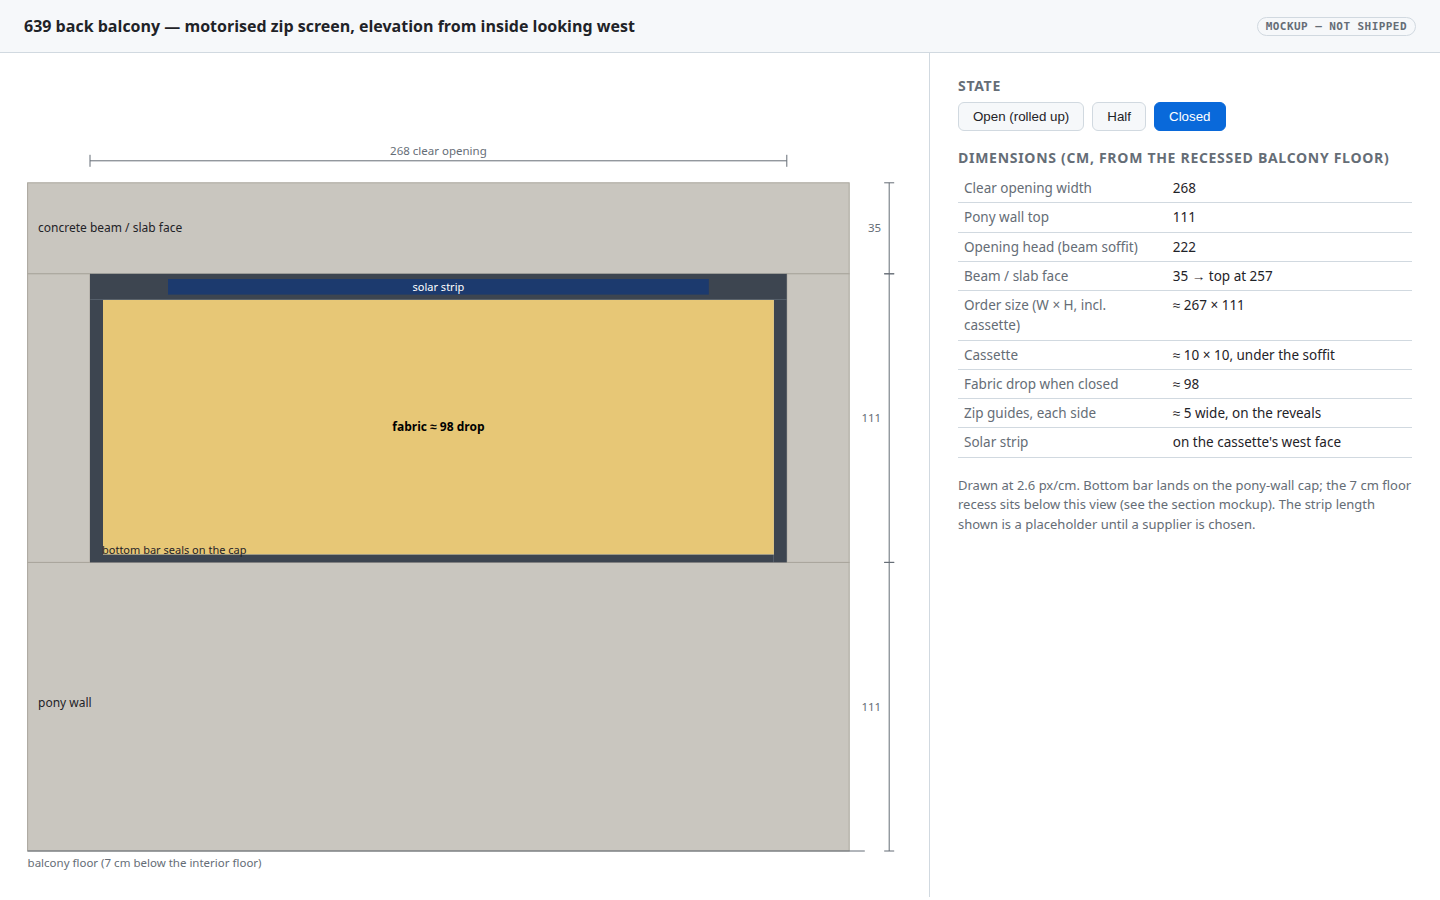
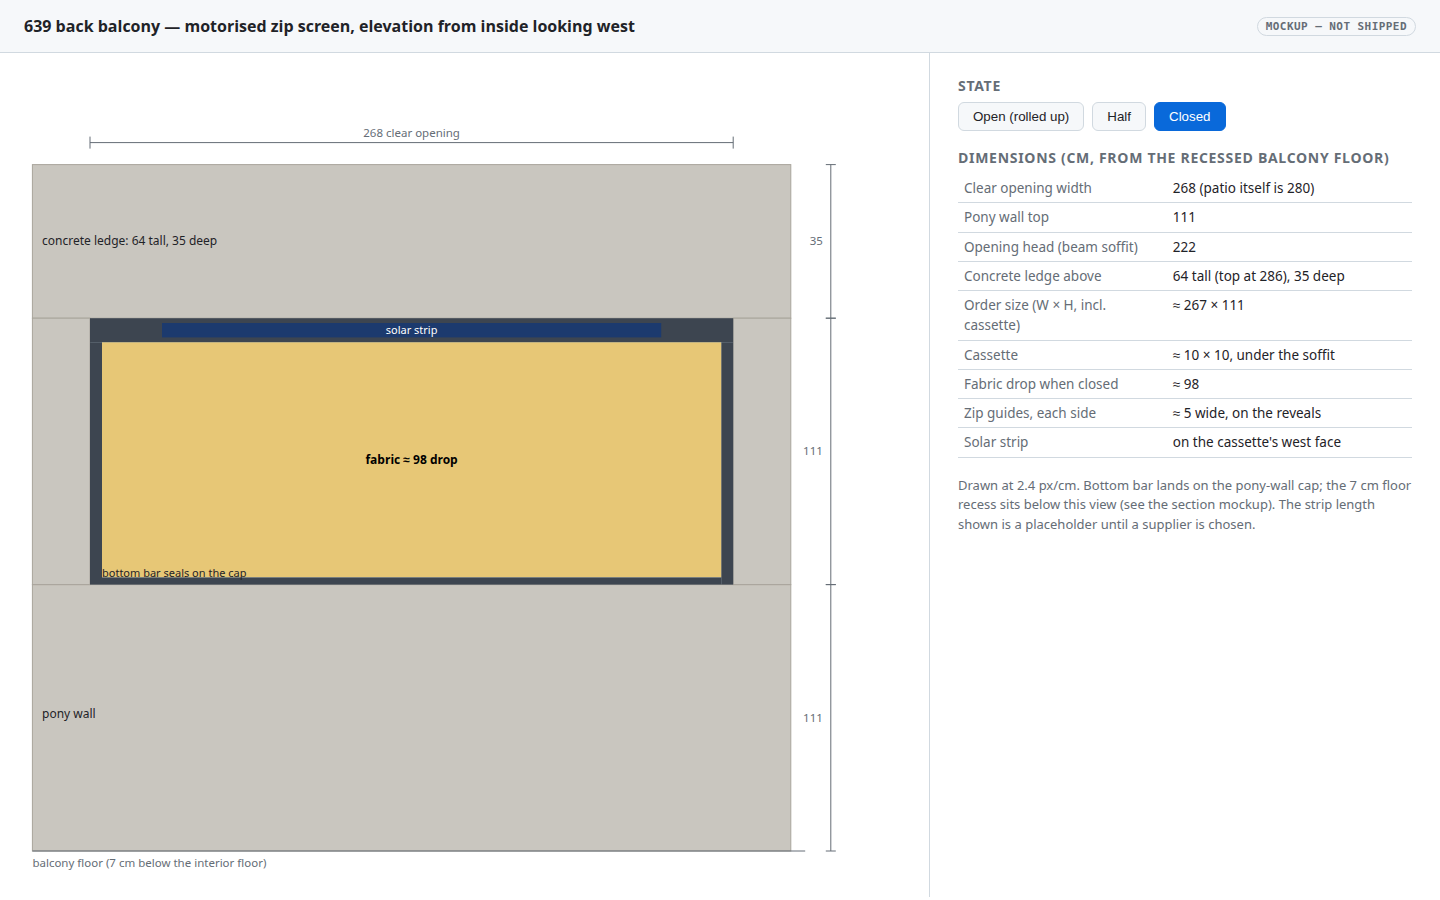
Condo balcony shade: fold in Will's answers (ledge 35 deep x 64 tall, patio 280, 3 m ceilings)
Claude-Session: https://claude.ai/code/session_01TfMcgfFyhXKC4CNP5iF7Nz

diff --git a/docs/plans/2026-09-30-condo-balcony-shade/section.html b/docs/plans/2026-09-30-condo-balcony-shade/section.html
@@ -42,14 +42,14 @@
     <li>The balcony floor steps <b>7 cm down</b> from the interior floor across the whole frontage of the 268 cm opening.</li>
     <li>The cassette hangs from the beam soffit at 222 cm; it eats about 10 cm of the 111 cm opening, so the fabric drops ≈ 98 cm.</li>
     <li>The solar strip is on the cassette's <b>west face</b>, vertical. With the sun above ≈ 60° it is nearly edge-on, so the strip charges best in the low afternoon sun and worst at midday.</li>
-    <li>Wall / beam thickness is drawn at 10 cm, copied from the level model. <b>Not measured</b> — it decides whether the screen sits in the wall's thickness or is surface-mounted.</li>
+    <li>The pony wall is 10 cm thick (confirmed) and drawn flush with the outer face; the ledge above is 35 cm deep, so it overhangs the balcony side by 25 cm. <b>Which face the pony wall is flush with is assumed</b> — the cassette is flush with it so the fabric lands on the cap.</li>
   </ul>
-  <p class="note">Drawn at 2.7 px/cm. The sun ray is only there to judge shading of the strip by the pony wall and beam.</p>
+  <p class="note">Drawn at 2.7 px/cm; the 64 cm ledge is measured 'about'. The sun ray is only there to judge shading of the strip by the pony wall and beam.</p>
 </div>
 </main>
 <script>
 const S = 2.7, WX = 300, YB = 790;                 // px/cm, x of the wall's inner face, balcony-floor line
-const REC = 7, PONY = 111, HEAD = 222, BEAM = 35, T = 10, CASS = 10, BAR = 3;
+const REC = 7, PONY = 111, HEAD = 222, BEAM = 64, T = 10, CASS = 10, BAR = 3;
 const Y = z => YB - z * S, X = y => WX + y * S;    // y in cm, + = outside (west)
 const s = document.getElementById('s');
 function el(t, a, txt) { const e = document.createElementNS('http://www.w3.org/2000/svg', t);
@@ -63,7 +63,7 @@ function draw(p, alt) {
   el('path', {d:`M${X(-105)},${Y(REC)} L${X(-T*0-105+0)},${Y(REC)} L${X(-0)},${Y(REC)} L${X(0)},${Y(0)} L${X(40)},${Y(0)}`, stroke:'var(--fg)', 'stroke-width':2, fill:'none'});
   box(-105, 0, 0, REC, 'var(--conc)', 'var(--conc2)');                    // the 7 cm step block (interior side)
   box(0, 0, T, PONY, 'var(--conc)', 'var(--conc2)');                      // pony wall
-  box(0, HEAD, T, HEAD+BEAM, 'var(--conc)', 'var(--conc2)');              // beam
+  box(T-35, HEAD, T, HEAD+BEAM, 'var(--conc)', 'var(--conc2)');           // ledge: 35 deep, flush with the outer face
   // cassette under the soffit, flush with the wall's outer face
   box(0, HEAD-CASS, T, HEAD, 'var(--cass)');
   box(T, HEAD-CASS+1, T+1.2, HEAD-1, 'var(--solar)');                     // solar strip on the west face
@@ -78,11 +78,11 @@ function draw(p, alt) {
   // labels
   el('text', {x:X(-100), y:Y(REC)-8}, 'interior floor (+7)'); el('text', {x:X(-100), y:Y(0)+16}, 'balcony floor (0)');
   el('text', {x:X(-100), y:Y(REC/2)+4, style:'font-size:11px'}, '7 cm step');
-  el('text', {x:X(T)+8, y:Y(PONY/2)}, 'pony wall 111'); el('text', {x:X(T)+8, y:Y(HEAD+BEAM/2)+4}, 'beam 35');
+  el('text', {x:X(T)+8, y:Y(PONY/2)}, 'pony wall 111'); el('text', {x:X(T)+8, y:Y(HEAD+BEAM/2)+4}, 'ledge 64 tall × 35 deep');
   el('text', {x:X(T)+22, y:Y(HEAD-CASS/2)+4}, 'cassette + solar strip');
   el('text', {x:X(T)+8, y:Y((HEAD+PONY)/2-4), style:'fill:var(--muted)'}, p>0.02?'':'(open: fabric rolled up)');
   const dx = X(-60);
-  for (const [a0,b0,l] of [[0,PONY,'111'],[PONY,HEAD,'111'],[HEAD,HEAD+BEAM,'35']]) {
+  for (const [a0,b0,l] of [[0,PONY,'111'],[PONY,HEAD,'111'],[HEAD,HEAD+BEAM,'64']]) {
     el('line', {class:'dim', x1:dx, y1:Y(a0), x2:dx, y2:Y(b0)}); el('line', {class:'dim', x1:dx-5, y1:Y(a0), x2:dx+5, y2:Y(a0)}); el('line', {class:'dim', x1:dx-5, y1:Y(b0), x2:dx+5, y2:Y(b0)});
     el('text', {class:'dimt', x:dx-8, y:Y((a0+b0)/2)+4, 'text-anchor':'end'}, l); }
   el('text', {class:'dimt', x:X(T)+8, y:Y(HEAD+BEAM)-6}, 'slab / ceiling');

diff --git a/docs/plans/2026-09-30-condo-balcony-shade/elevation.html b/docs/plans/2026-09-30-condo-balcony-shade/elevation.html
@@ -47,23 +47,23 @@
   </div>
   <h2>Dimensions (cm, from the recessed balcony floor)</h2>
   <table>
-    <tr><td>Clear opening width</td><td>268</td></tr>
+    <tr><td>Clear opening width</td><td>268 (patio itself is 280)</td></tr>
     <tr><td>Pony wall top</td><td>111</td></tr>
     <tr><td>Opening head (beam soffit)</td><td>222</td></tr>
-    <tr><td>Beam / slab face</td><td>35 → top at 257</td></tr>
+    <tr><td>Concrete ledge above</td><td>64 tall (top at 286), 35 deep</td></tr>
     <tr><td>Order size (W × H, incl. cassette)</td><td>≈ 267 × 111</td></tr>
     <tr><td>Cassette</td><td>≈ 10 × 10, under the soffit</td></tr>
     <tr><td>Fabric drop when closed</td><td>≈ 98</td></tr>
     <tr><td>Zip guides, each side</td><td>≈ 5 wide, on the reveals</td></tr>
     <tr><td>Solar strip</td><td>on the cassette's west face</td></tr>
   </table>
-  <p class="note">Drawn at 2.6 px/cm. Bottom bar lands on the pony-wall cap; the 7 cm floor recess sits below this view
+  <p class="note">Drawn at 2.4 px/cm. Bottom bar lands on the pony-wall cap; the 7 cm floor recess sits below this view
   (see the section mockup). The strip length shown is a placeholder until a supplier is chosen.</p>
 </div>
 </main>
 <script>
-const S = 2.6, X0 = 80, YB = 790;               // px per cm, left edge of opening, balcony-floor line
-const W = 268, PONY = 111, HEAD = 222, BEAM = 35, CASS = 10, GUIDE = 5, BAR = 3;
+const S = 2.4, X0 = 80, YB = 790;               // px per cm, left edge of opening, balcony-floor line
+const W = 268, PONY = 111, HEAD = 222, BEAM = 64, CASS = 10, GUIDE = 5, BAR = 3;
 const Y = z => YB - z * S, X = x => X0 + x * S;
 const s = document.getElementById('s');
 function el(t, a, txt) { const e = document.createElementNS('http://www.w3.org/2000/svg', t);
@@ -78,7 +78,7 @@ function draw(p) {
   el('rect', {x:X(-24), y:Y(HEAD+BEAM), width:(W+48)*S, height:BEAM*S, fill:'var(--conc)', stroke:'var(--conc2)'}); // beam
   el('rect', {x:X(-24), y:Y(HEAD), width:24*S, height:(HEAD-PONY)*S, fill:'var(--conc)', stroke:'var(--conc2)'});
   el('rect', {x:X(W),  y:Y(HEAD), width:24*S, height:(HEAD-PONY)*S, fill:'var(--conc)', stroke:'var(--conc2)'});
-  el('text', {x:X(-20), y:Y(PONY/2)}, 'pony wall'); el('text', {x:X(-20), y:Y(HEAD+BEAM/2)+4}, 'concrete beam / slab face');
+  el('text', {x:X(-20), y:Y(PONY/2)}, 'pony wall'); el('text', {x:X(-20), y:Y(HEAD+BEAM/2)+4}, 'concrete ledge: 64 tall, 35 deep');
   // zip guides
   for (const gx of [0, W-GUIDE]) el('rect', {x:X(gx), y:Y(HEAD-CASS), width:GUIDE*S, height:(HEAD-CASS-PONY)*S, fill:'var(--cass)'});
   // fabric

diff --git a/docs/plans/2026-09-30-condo-balcony-shade.md b/docs/plans/2026-09-30-condo-balcony-shade.md
@@ -4,14 +4,17 @@
 
 The back balcony of 639 is an open opening onto the west (Bangkok afternoon sun, monsoon rain, gusts, 6th floor ≈ 16 m up). Will wants a **motorised outdoor zip screen in a cassette, mounted under the concrete ledge (beam) of the opening**, with the **solar-strip motor option** (battery motor charged by a thin photovoltaic strip — no mains wiring to the balcony).
 
-Measured by Will (2026‑09‑30):
+Measured by Will (2026‑09‑30; the ledge depth vs. height and the datum were clarified the same day):
 
 | Item | Value |
 |---|---|
 | Opening width | 268 cm |
 | Opening height (pony-wall cap → beam soffit) | 111 cm |
 | Pony wall height | 111 cm |
-| Concrete beam / slab face above the opening | 35 cm deep |
+| Concrete ledge above the opening | **35 cm deep** (front-to-back), **about 64 cm tall** |
+| Pony wall thickness | 10 cm |
+| Patio width (`639-patio-recessed`) | 280 cm; the opening is centred in it |
+| Ceiling | 3 m walls, no drop ceilings anywhere in 639 |
 | Floor in front of the opening | recessed **7 cm** below the interior floor |
 
 **The level model does not match these numbers today** (queried read-only from `~/docs/aircon/units-639-640.blend`, `unit-639` shell, y = 0 plane):
@@ -19,7 +22,8 @@ Measured by Will (2026‑09‑30):
 - The patio rooms are `639-patio-recessed` (x 2.70–5.40) and `639-patio` (x 5.40–7.80), both floored at z = 0, ceilinged at z = 2.70.
 - The open edge is a **1.00 m parapet** (x 2.65–5.85, y −0.10…0) with **nothing above it** up to the 2.70 m ceiling, i.e. a 1.70 m opening and no beam. A full-height wall starts at x 6.55.
 - A full-height post stands at x 5.70–5.80, so the parapet run is 2.75–5.70 = 2.95 m clear, not 2.68 m.
-- Real stack 111 + 111 + 35 = **257 cm**; the model's ceiling is 270 cm.
+- Real stack 111 + 111 + 64 = **286 cm** from the balcony floor, under a **300 cm** ceiling; the model's ceilings are 270 cm (an assumption in the source survey — see Open questions).
+- The model's recessed patio is 270 cm wide; the real one is 280 cm.
 - The Daikin outdoor unit hangs *outboard* of the parapet at x 2.76–3.56, y 0.19–0.49, z 0.30–0.85; its lineset and drain cross y = 0 at the left end, below the parapet cap.
 
 So the plan has two halves: **(A) the real-world spec** Will can take to a supplier, and **(B) the level model** corrected to the measurements, with the shade built into it and operable.
@@ -33,7 +37,7 @@ Product class: **outdoor zip screen, cassette (head box) on the soffit, inside-r
 | Parameter | Recommendation | Why |
 |---|---|---|
 | Order size | ≈ 267 × 111 cm **overall, cassette included** | 268 cm clear less ~5 mm per side; supplier deducts for guides. Measure the clear width at three heights and order to the smallest |
-| Cassette | ≈ 10 × 10 cm, aluminium, flush under the soffit | A 111 cm drop rolls to a small diameter; the cassette costs ≈ 10 cm of the opening, so the fabric drops ≈ 98 cm |
+| Cassette | ≈ 10 × 10 cm, aluminium, under the soffit **flush with the pony wall's outer face**, so the bottom bar lands on the 10 cm cap. The 35 cm-deep ledge leaves 25 cm of soffit on the balcony side, which shades but does not obstruct | A 111 cm drop rolls to a small diameter; the cassette costs ≈ 10 cm of the opening, so the fabric drops ≈ 98 cm |
 | Guides | zip tracks on both reveals, ≈ 5 cm wide each | Keep the fabric taut in gusts; fabric width ≈ 257 cm |
 | Bottom bar | ≈ 3 cm, with rubber seal, lands on the pony-wall cap | Cap must be flat and level — a 0–10 mm error shows as a gap along 2.6 m |
 | Fabric | 3–5 % openness, light exterior colour | Heat rejection matters more than see-through in Bangkok; darker fabric keeps more view but passes more heat |
@@ -44,15 +48,15 @@ Product class: **outdoor zip screen, cassette (head box) on the soffit, inside-r
 
 **Solar strip placement.** The balcony faces due west, so a vertical strip on the cassette's outer face sees direct sun only from roughly midday on, and edge-on near solar noon (see the section mockup). Morning charge is diffuse. Ask the supplier for the strip's Wp, the battery's Wh, and the cycles per day it is rated for; a 111 cm drop is a small load, which is why this option is plausible here.
 
-**Anchoring.** Side guides bolt into the concrete reveals; the cassette hangs from the soffit. Both need the wall thickness (see Open questions).
+**Anchoring.** Side guides bolt into the concrete reveals (the vertical side faces of the opening); the cassette hangs from the soffit. Both need flat, plumb faces — see Open questions.
 
 ### B. Level model (`blender_create_condo.py`)
 
 The source `.blend` is read-only, so all of this is a new section (**§ 7d**) in `wflevels/condo_639_640/blender_create_condo.py`, following the pattern of § 7c (telescoping glass doors) and gated by `CONDO_SHADE=0` to switch it off.
 
-1. **Pin the opening.** Constants in metres, all derived from Will's numbers: `SHADE_W = 2.68`, `PONY_H = 1.11`, `OPEN_H = 1.11`, `BEAM_H = 0.35`, `FLOOR_RECESS = 0.07`, plus `SHADE_X0` (see Open questions).
+1. **Pin the opening.** Constants in metres, all derived from Will's numbers: `SHADE_W = 2.68`, `PONY_H = 1.11`, `PONY_T = 0.10`, `OPEN_H = 1.11`, `LEDGE_DEEP = 0.35`, `FLOOR_RECESS = 0.07`, `PATIO_W = 2.80`. The patio is widened from 2.70 to 2.80 m keeping its south edge on the party wall (x 2.75…5.55); the opening is centred in it (x 2.81…5.49, 6 cm of jamb each side).
 2. **Recess the floor 7 cm** across the opening's frontage. The shell floor is a single z = 0 face set inside `unit-639`, so this is a `bmesh` bisect of the top faces over the rectangle, dropping the cut region by 0.07 m and closing it with a step wall on the interior side. The player walks down 7 cm; Jolt's character step handles that.
-3. **Rebuild the opening** as solid geometry: parapet raised from 1.00 m to 1.11 m over the shade span; a **beam** over the span with its soffit at the opening head; infill piers where the model's 2.95 m run is wider than 2.68 m.
+3. **Rebuild the opening** as solid geometry: parapet raised from 1.00 m to 1.11 m and 10 cm thick, flush with the outer face (y −0.10…0); a **ledge** 35 cm deep (y −0.35…0) with its soffit at the opening head (z 2.15) up to the model's 2.70 m ceiling, i.e. 55 cm tall against the real ≈ 64 cm; solid piers over the rest of the model's 2.95 m parapet run, outside x 2.81…5.49.
 4. **Build the shade** as separate actors:
    - `639-balcony-shade-cassette` (static box with the solar strip as a second material on its west face, the strip length a placeholder);
    - two static guide boxes on the reveals;
@@ -77,13 +81,13 @@ The in-engine states (open, half, closed, seen from the balcony POV and from the
 
 ## Open questions
 
-Each has a default that the build uses until Will corrects it; all are constants at the top of § 7d.
+Answers of 2026‑09‑30 are folded in; what is left has a default that the build uses until corrected (constants at the top of § 7d).
 
-1. **Datum for 111 / 111 / 35.** Default: measured from the **recessed** balcony floor, so the cap is 1.04 m and the soffit 2.15 m above the *interior* floor. If measured from the interior floor, both move up 7 cm.
-2. **Ceiling.** 257 cm from the balcony floor is 250 cm above the interior floor, but the model's patio ceiling is 270 cm. Default: the beam is modelled from the true soffit (2.15) up to the model ceiling (2.70), i.e. taller than 35 cm, so the level stays watertight; the 20 cm is a model artefact, not a claim about the building.
-3. **Where the 268 cm sits.** The model's parapet run is 2.95 m (x 2.75–5.70). Default: centred, x 2.891–5.559, with 14 cm piers each side. Lineset and drain cross below the cap at the left end, so none of the choices collide with the shade.
-4. **Wall / beam thickness.** The model has 10 cm; unmeasured. It decides whether the 10 cm cassette sits inside the wall's thickness or is surface-mounted, and which face the screen closes on.
-5. **Reveal condition.** Are the two side reveals flat, plumb concrete/plaster? Guides need ≈ 5 cm of flat face each side.
+1. ~~Datum for 111 / 111 / 35.~~ **Answered:** measured from the recessed balcony floor. The cap is 1.04 m and the soffit 2.15 m above the interior floor.
+2. ~~Ceiling.~~ **Answered:** walls are 3 m, no drop ceilings in 639, and the ledge is 35 cm deep × ≈ 64 cm tall (my earlier reading of "35" as its height was wrong). The model's 2.70 m ceilings are therefore an assumption in the source survey, worse than assumed. **Not changed here** — raising every ceiling is a level-wide change to `~/scripts/aircon-blender.py`'s model; filed as its own TODO item. In this patio the ledge fills from the true soffit to the model ceiling (55 cm instead of 64).
+3. ~~Where the 268 cm sits.~~ **Answered:** in the recessed patio, to the south of the main patio, which is 280 cm wide. Centred: x 2.81…5.49.
+4. **Which face is the pony wall flush with, and which way does the ledge overhang?** The wall is 10 cm and the ledge 35 cm deep, so one face is flush and the ledge sticks out 25 cm on the other side. Default: both flush on the outer (west) face, ledge overhanging into the balcony. If it is the other way round, the cassette sits on the balcony side of the cap and the bottom bar needs a bar-to-cap check on site.
+5. **Reveals** (the vertical side faces of the opening, left and right — what the zip guides bolt to): are they flat and plumb, with about 5 cm of clear face each side? With a 280 cm patio and a 268 cm opening there should be about 6 cm of wall at each side, which is the width the guides need.
 
 ## Out of scope
 
@@ -91,6 +95,7 @@ Each has a default that the build uses until Will corrects it; all are constants
 - Shading the *interior* side or the other patio room (x 5.40–7.80, full-height wall).
 - Weather in the level (rain, wind on the fabric).
 - Adding the balcony's real slab thickness, drainage falls or waterproofing lip under the 7 cm recess.
+- Raising the whole level to 3 m ceilings (filed separately).
 - A solar-yield model tied to `SUN_ALT_DEG` / `SUN_AZ_DEG`; the existing sun-position item ([plan](2026-09-20-condo-sun-solar-position.md)) is the prerequisite.
 
 ## Verification
@@ -102,4 +107,4 @@ Each has a default that the build uses until Will corrects it; all are constants
 5. In-engine capture at closedness 0, ~0.5 and 1.0 (`-rate20 --capture-frame`): slats tile without gaps or z-fighting at 1.0 and vanish into the cassette at 0.
 6. Balcony POV shot (`cs_balcony`) and the doll-house shot are captured with the shade open and closed; the view is not blocked when open.
 7. Pressing B (keyboard 2) within reach toggles the shade over about 2 s; a second press mid-travel reverses it smoothly; out of reach does nothing.
-8. **On site, before ordering:** measure the clear width at top, middle and bottom, the pony-wall cap level along its length, the wall thickness, and the datum for the three heights (Open questions 1–5); update the constants.
+8. **On site, before ordering:** measure the clear width at top, middle and bottom, the pony-wall cap level along its length, the face the pony wall is flush with, and the ledge's true height (Open questions 4–5); update the constants.

diff --git a/TODO.md b/TODO.md
@@ -71,7 +71,8 @@
 ### Level / Gameplay
 
 - [wip T4] **Aquarium level — 55 gal acrylic tank, one clownfish, one anemone.** <!-- agent:aacf5d1a2b46c3ddc --> Plan and three mockups written 2026‑09‑30. **Phase 0 done (`1aa8e779`): the bit‑15 pane renders opaque** — the fragment shader writes alpha 1.0 (`backend_modern.cc:117`, since `23e632ec`), so the level proceeds on **Plan B (no front face)** unless an engine change is approved; with alpha restored (bridge diagnostic) the pane blends exactly 50 % when created last in actor order. Next: Phase 1 — a gravity-free `Physics` fish and ×1 vs ×10 scale. [plan](docs/plans/2026-09-30-aquarium-level.md)
-- [T4] **Condo 639 back balcony: motorised zip screen (solar-strip motor) + 7 cm floor recess.** Rank T4: shell surgery (bisect the patio floor, rebuild parapet/beam to Will's 268 × 111 × 111 × 35 cm) plus a Director-driven 8-slat roll animation — a wrong turn is expensive. Plan, real-world spec and two mockups written 2026‑09‑30; five open measurements have safe defaults. [plan](docs/plans/2026-09-30-condo-balcony-shade.md)
+- [T4] **Condo 639 back balcony: motorised zip screen (solar-strip motor) + 7 cm floor recess.** Rank T4: shell surgery (bisect the patio floor, rebuild parapet/beam to Will's 268 × 111 × 111 × 35 cm) plus a Director-driven 8-slat roll animation — a wrong turn is expensive. Plan, real-world spec and two mockups written 2026‑09‑30; Will's answers folded in (ledge 35 deep × ≈ 64 tall, patio 280, datum = recessed floor); pony-wall/ledge flush face still assumed. [plan](docs/plans/2026-09-30-condo-balcony-shade.md)
+- [T4] **Condo 639 ceilings are 3 m, not 2.70 m — the source survey is wrong.** Will (2026‑09‑30): walls are 3 m, no drop ceilings anywhere in 639. `WALL_H = 2.7` and the source `.blend` (`~/scripts/aircon-blender.py`) carry 2.70 m; raising every wall, door panel, window, camera and the unit lift is level-wide and can break the tour path, so it needs its own plan. Rank T4: cross-cutting, wrong turn is expensive.
 - [wip T4] **Clownfish idle animation** — hover bob, sway, tail beat, fin flutter, Forth-driven, no engine change. Spike in its own worktree; also settles whether `ROTATION_*` writes work on Physics and StatPlat actors (aquarium plan Phase 1 step 7). <!-- agent:ad5039dd04d90eb31 -->
 - [T4] **qbert_practice and mm_practice_blender_rt no longer rebuild correctly from their scripts.** Since the restored exporter (`8db74292`) the qbert camshot's `Target` exports as the scaffold's original name (`target_14`) instead of the renamed `Target02` — levcomp can't resolve it and the engine asserts `shotData->Target` (movecam.cc:310) on load; the round‑trip level comes out with zero `slope` and without its texture atlas. Reproduced with the pre‑flip exporter too, so it is ObjRef resolution, not winding. Both levels were restored from HEAD in the exporter‑hand sweep and still carry the old hand. Fix the ObjRef lookup, rebuild both, re‑run `scripts/sweep_blender_levels.py --only qbert_practice,mm_practice_blender_rt`. [plan](docs/plans/2026-09-19-exporter-face-hand.md) **Also `smb_w1_1` (2026‑09‑21):** rebuilding it from `blender_create_smb.py` (after the `OAD_DIR` repoint, `e8eebe6e`) yields a large `.lev` diff independent of that change — same class; the regenerated artifacts were deliberately not committed.
 - [T5] **Pin the condo's real footprint (`SITE_OFFSET_EN`).** The map pin geocodes to the Soi Sathu Pradit 34 / Sathu Pradit Road corner — a road in OSM — so the units currently hover over the road on the ground map. Identify the building (candidates listed in the plan's transcript: 65×44 m footprint 65 m NW at bearing 319°, 36×32 m 72 m S…), set the east/north offset in `wflevels/condo_639_640/site_constants.py`, `task condo-textures`. Then a flat box for floors 1–5 under the units becomes possible. [plan](docs/plans/2026-09-19-condo-site-skybox.md)
@@ -363,6 +364,7 @@ _Auto-added from plan "Out of scope"/"Deferred" sections at commit time. Triage 
 - [ ] **(triage)** Adding the balcony's real slab thickness, drainage falls or waterproofing lip under the 7 cm recess. — _from [2026-09-30-condo-balcony-shade.md](docs/plans/2026-09-30-condo-balcony-shade.md)_  <!-- fp:d818673a852465ac -->
 - [ ] **(triage)** A solar-yield model tied to `SUN_ALT_DEG` / `SUN_AZ_DEG`; the existing sun-position item ([plan](2026-09-20-condo-sun-solar-position.md)) is the prerequisite. — _from [2026-09-30-condo-balcony-shade.md](docs/plans/2026-09-30-condo-balcony-shade.md)_  <!-- fp:156c3bc9f97e1790 -->
 - [verify] **2026-09-30-condo-balcony-shade** — Verification section present but no PASS recorded — run + record the steps. _from [2026-09-30-condo-balcony-shade.md](docs/plans/2026-09-30-condo-balcony-shade.md)_  <!-- fp:c04fa8539735b0dc -->
+- [ ] **(triage)** Raising the whole level to 3 m ceilings (filed separately). — _from [2026-09-30-condo-balcony-shade.md](docs/plans/2026-09-30-condo-balcony-shade.md)_  <!-- fp:bee87167a74482ee -->
 <!-- END auto-captured-deferrals -->
 
 - [x] Implemented Forth-only condo camera inspection controls; desktop/touch input regressions passed. [Plan and mockups](docs/plans/2026-09-25-condo-camera-controls.md)

diff --git a/docs/plans/.history/2026-09-30-condo-balcony-shade.md b/docs/plans/.history/2026-09-30-condo-balcony-shade.md
@@ -1,0 +1,11 @@
+| Date | Change |
+|------|--------|
+| [2026-09-30](https://github.com/wbniv/WorldFoundry/commit/ce0a2fa6) | Plan condo 639 balcony zip screen (solar-strip motor) and 7 cm floor recess |
+
+<!--history-meta v1
+ce0a2fa6	author	Will Norris
+ce0a2fa6	added	105
+ce0a2fa6	deleted	0
+ce0a2fa6	files	1
+ce0a2fa6	body	Real-world spec for the 268 x 111 cm opening, level-model approach (new\nsection 7d, 8-slat roll animation), two mockups, five open measurements.\n\nCo-Authored-By: Claude Sonnet 5.5 <noreply@anthropic.com>\nClaude-Session: https://claude.ai/code/session_01TfMcgfFyhXKC4CNP5iF7Nz
+-->
